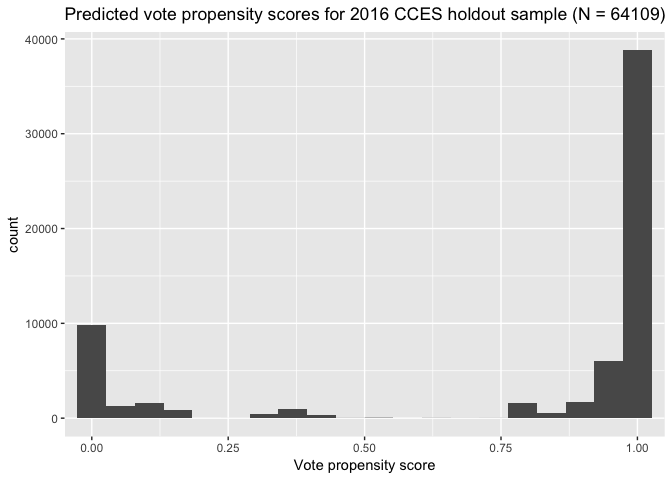
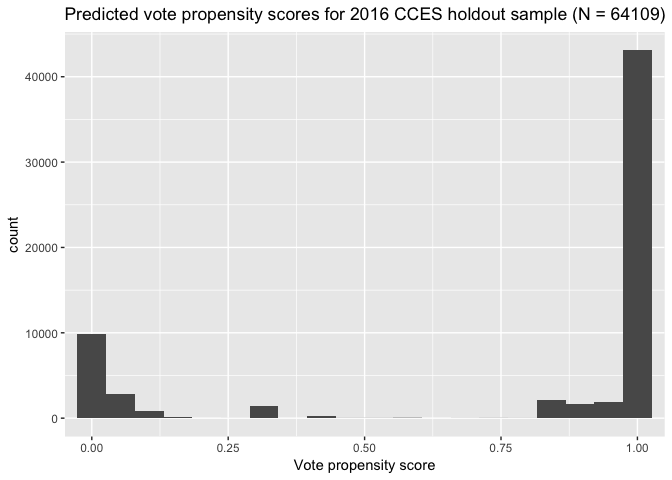
Updated load.R and national_models to fix coding oversights in load.R.

diff --git a/national_models.md b/national_models.md
@@ -84,13 +84,13 @@ First, I'll consider everyone who self-reported that they voted in 2012. Then I'
 
 | Vote history                                | Vote intent                                                  |  True positive rate|  True negative rate|
 |:--------------------------------------------|:-------------------------------------------------------------|-------------------:|-------------------:|
-| Voted in 2012                               | Already voted + will definitely vote                         |               69.95|               73.60|
-|                                             | Already voted + will definitely or probably vote             |               68.17|               74.38|
-|                                             | Already voted + will definitely or probably vote + undecided |               67.28|               74.09|
-|                                             | All respondents                                              |               66.67|               73.48|
-| Voted in 2012, don't recall, or didn't vote | Already voted + will definitely vote                         |               68.07|               86.50|
-|                                             | Already voted + will definitely or probably vote             |               64.50|               92.86|
-|                                             | Already voted + will definitely or probably vote + undecided |               61.64|               95.87|
+| Voted in 2012                               | Already voted + will definitely vote                         |               69.99|               74.19|
+|                                             | Already voted + will definitely or probably vote             |               68.21|               75.06|
+|                                             | Already voted + will definitely or probably vote + undecided |               67.33|               74.82|
+|                                             | All respondents                                              |               66.71|               74.22|
+| Voted in 2012, don't recall, or didn't vote | Already voted + will definitely vote                         |               68.07|               86.49|
+|                                             | Already voted + will definitely or probably vote             |               64.50|               92.84|
+|                                             | Already voted + will definitely or probably vote + undecided |               61.64|               95.84|
 |                                             | All respondents                                              |               57.80|                  NA|
 
 Election predictions
